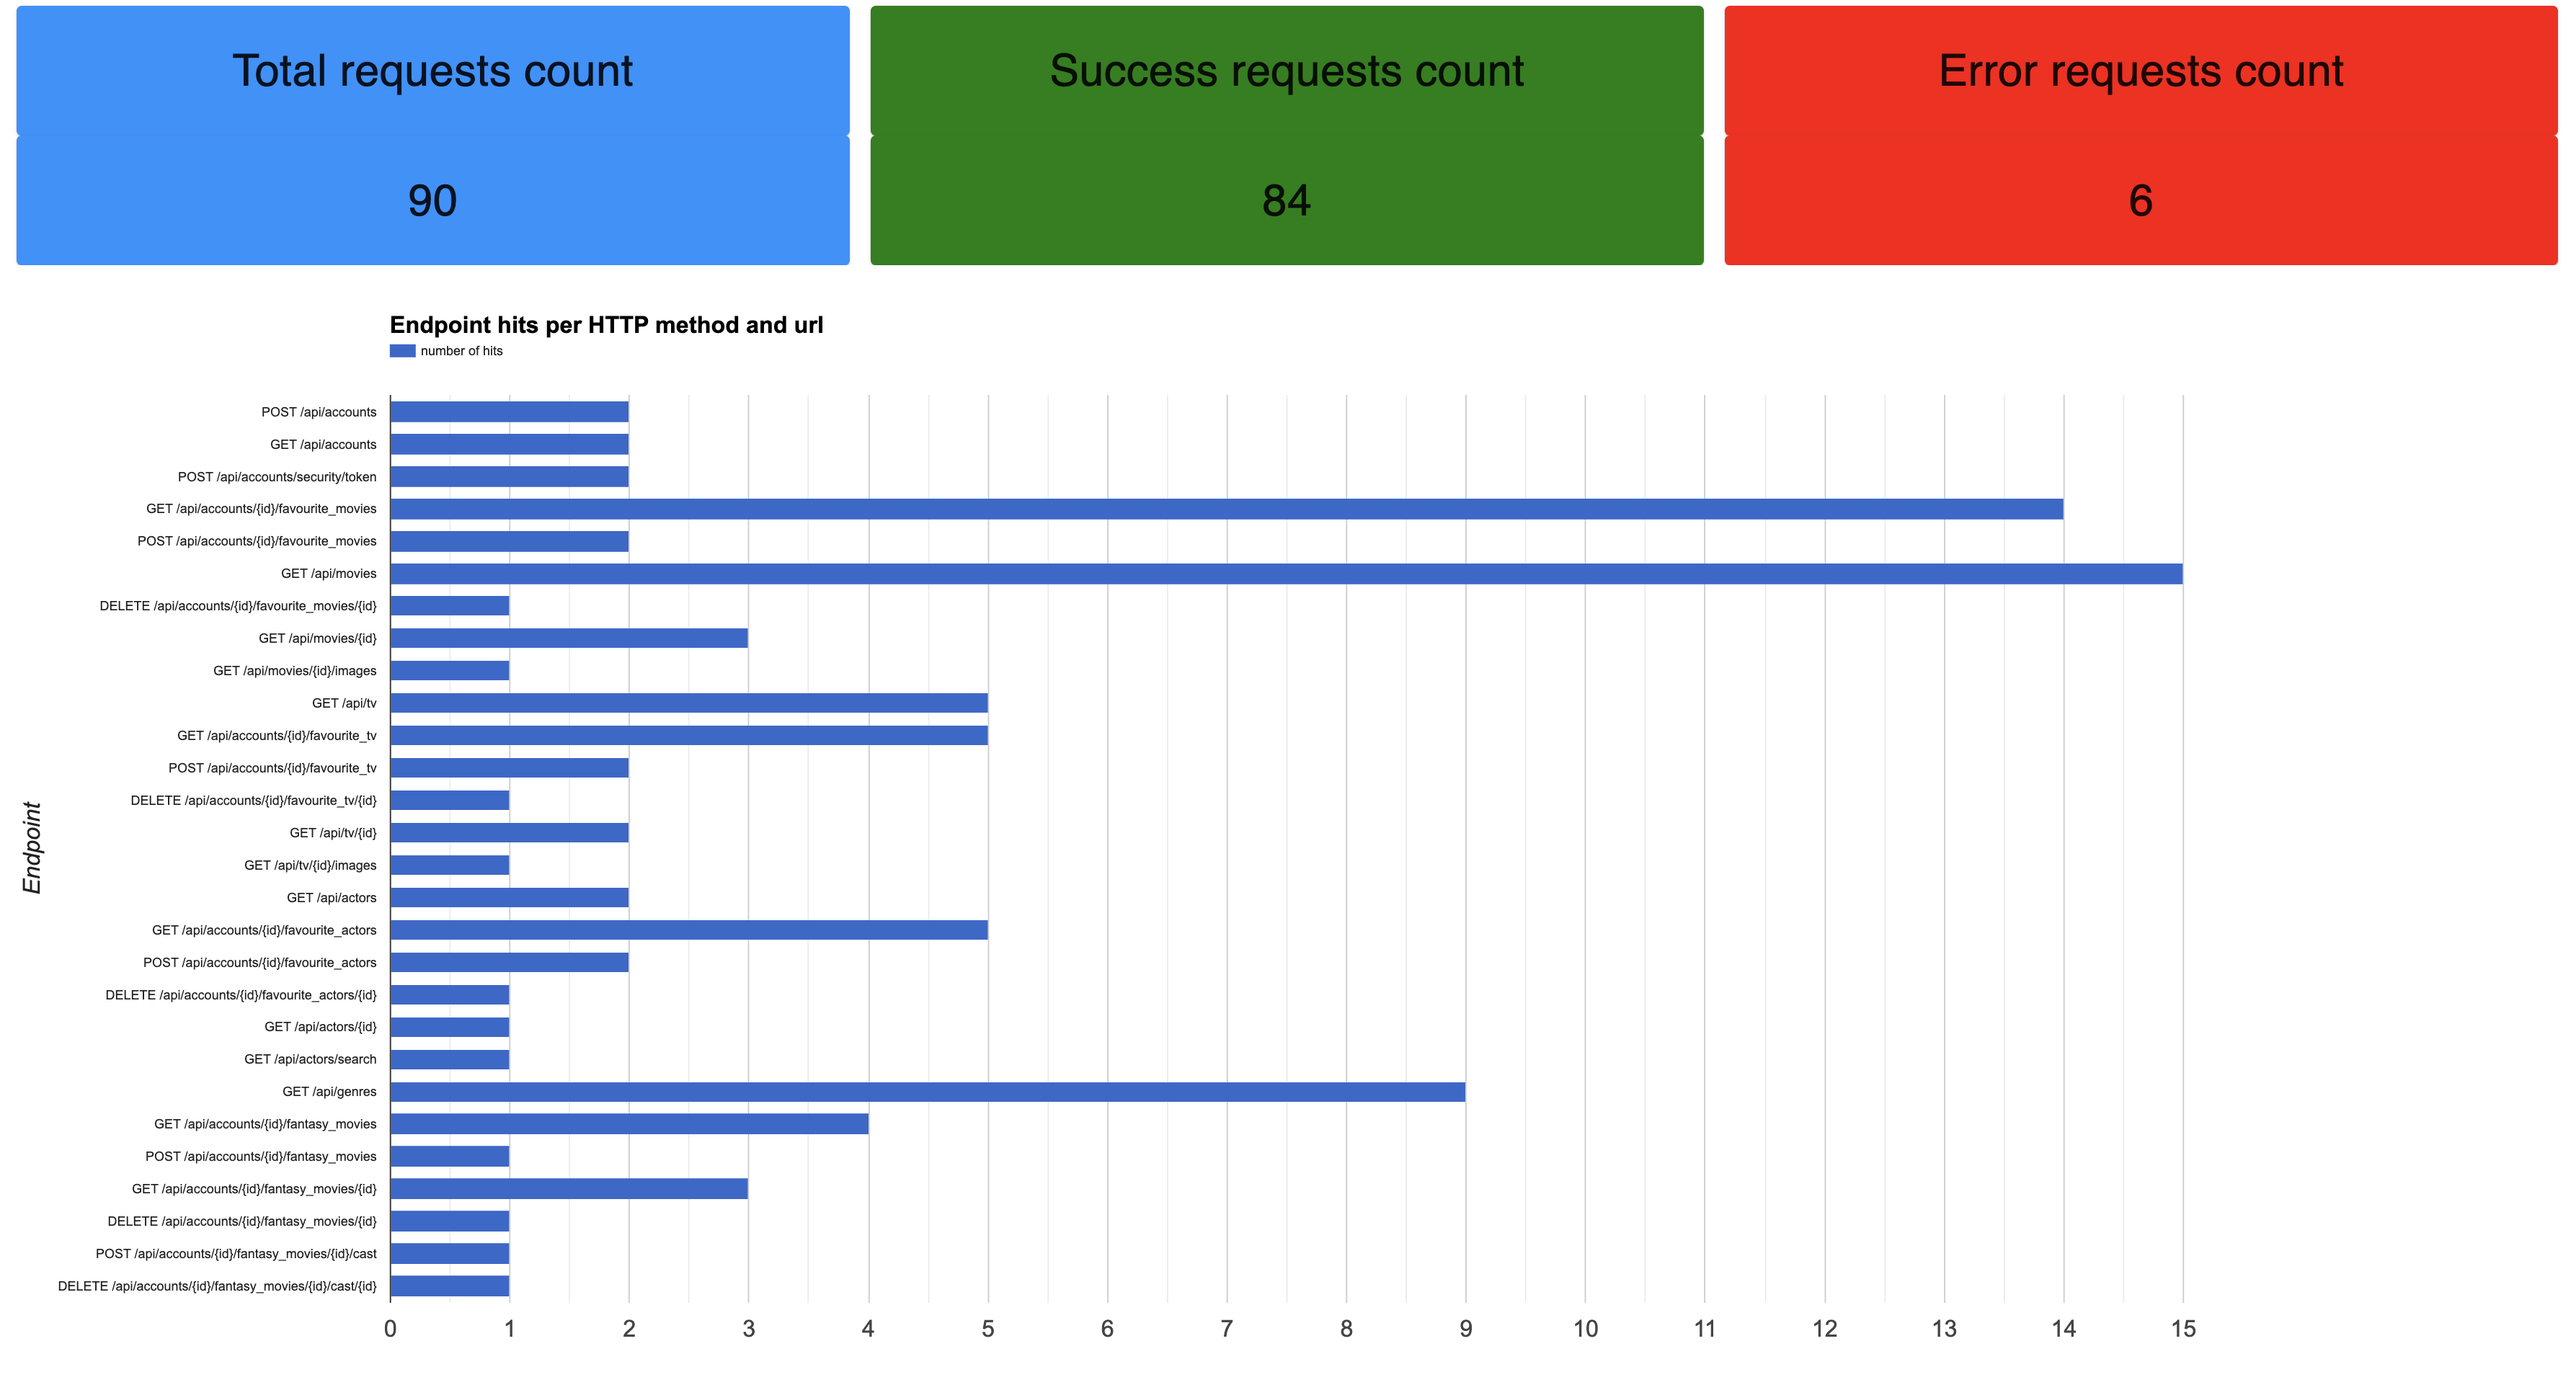
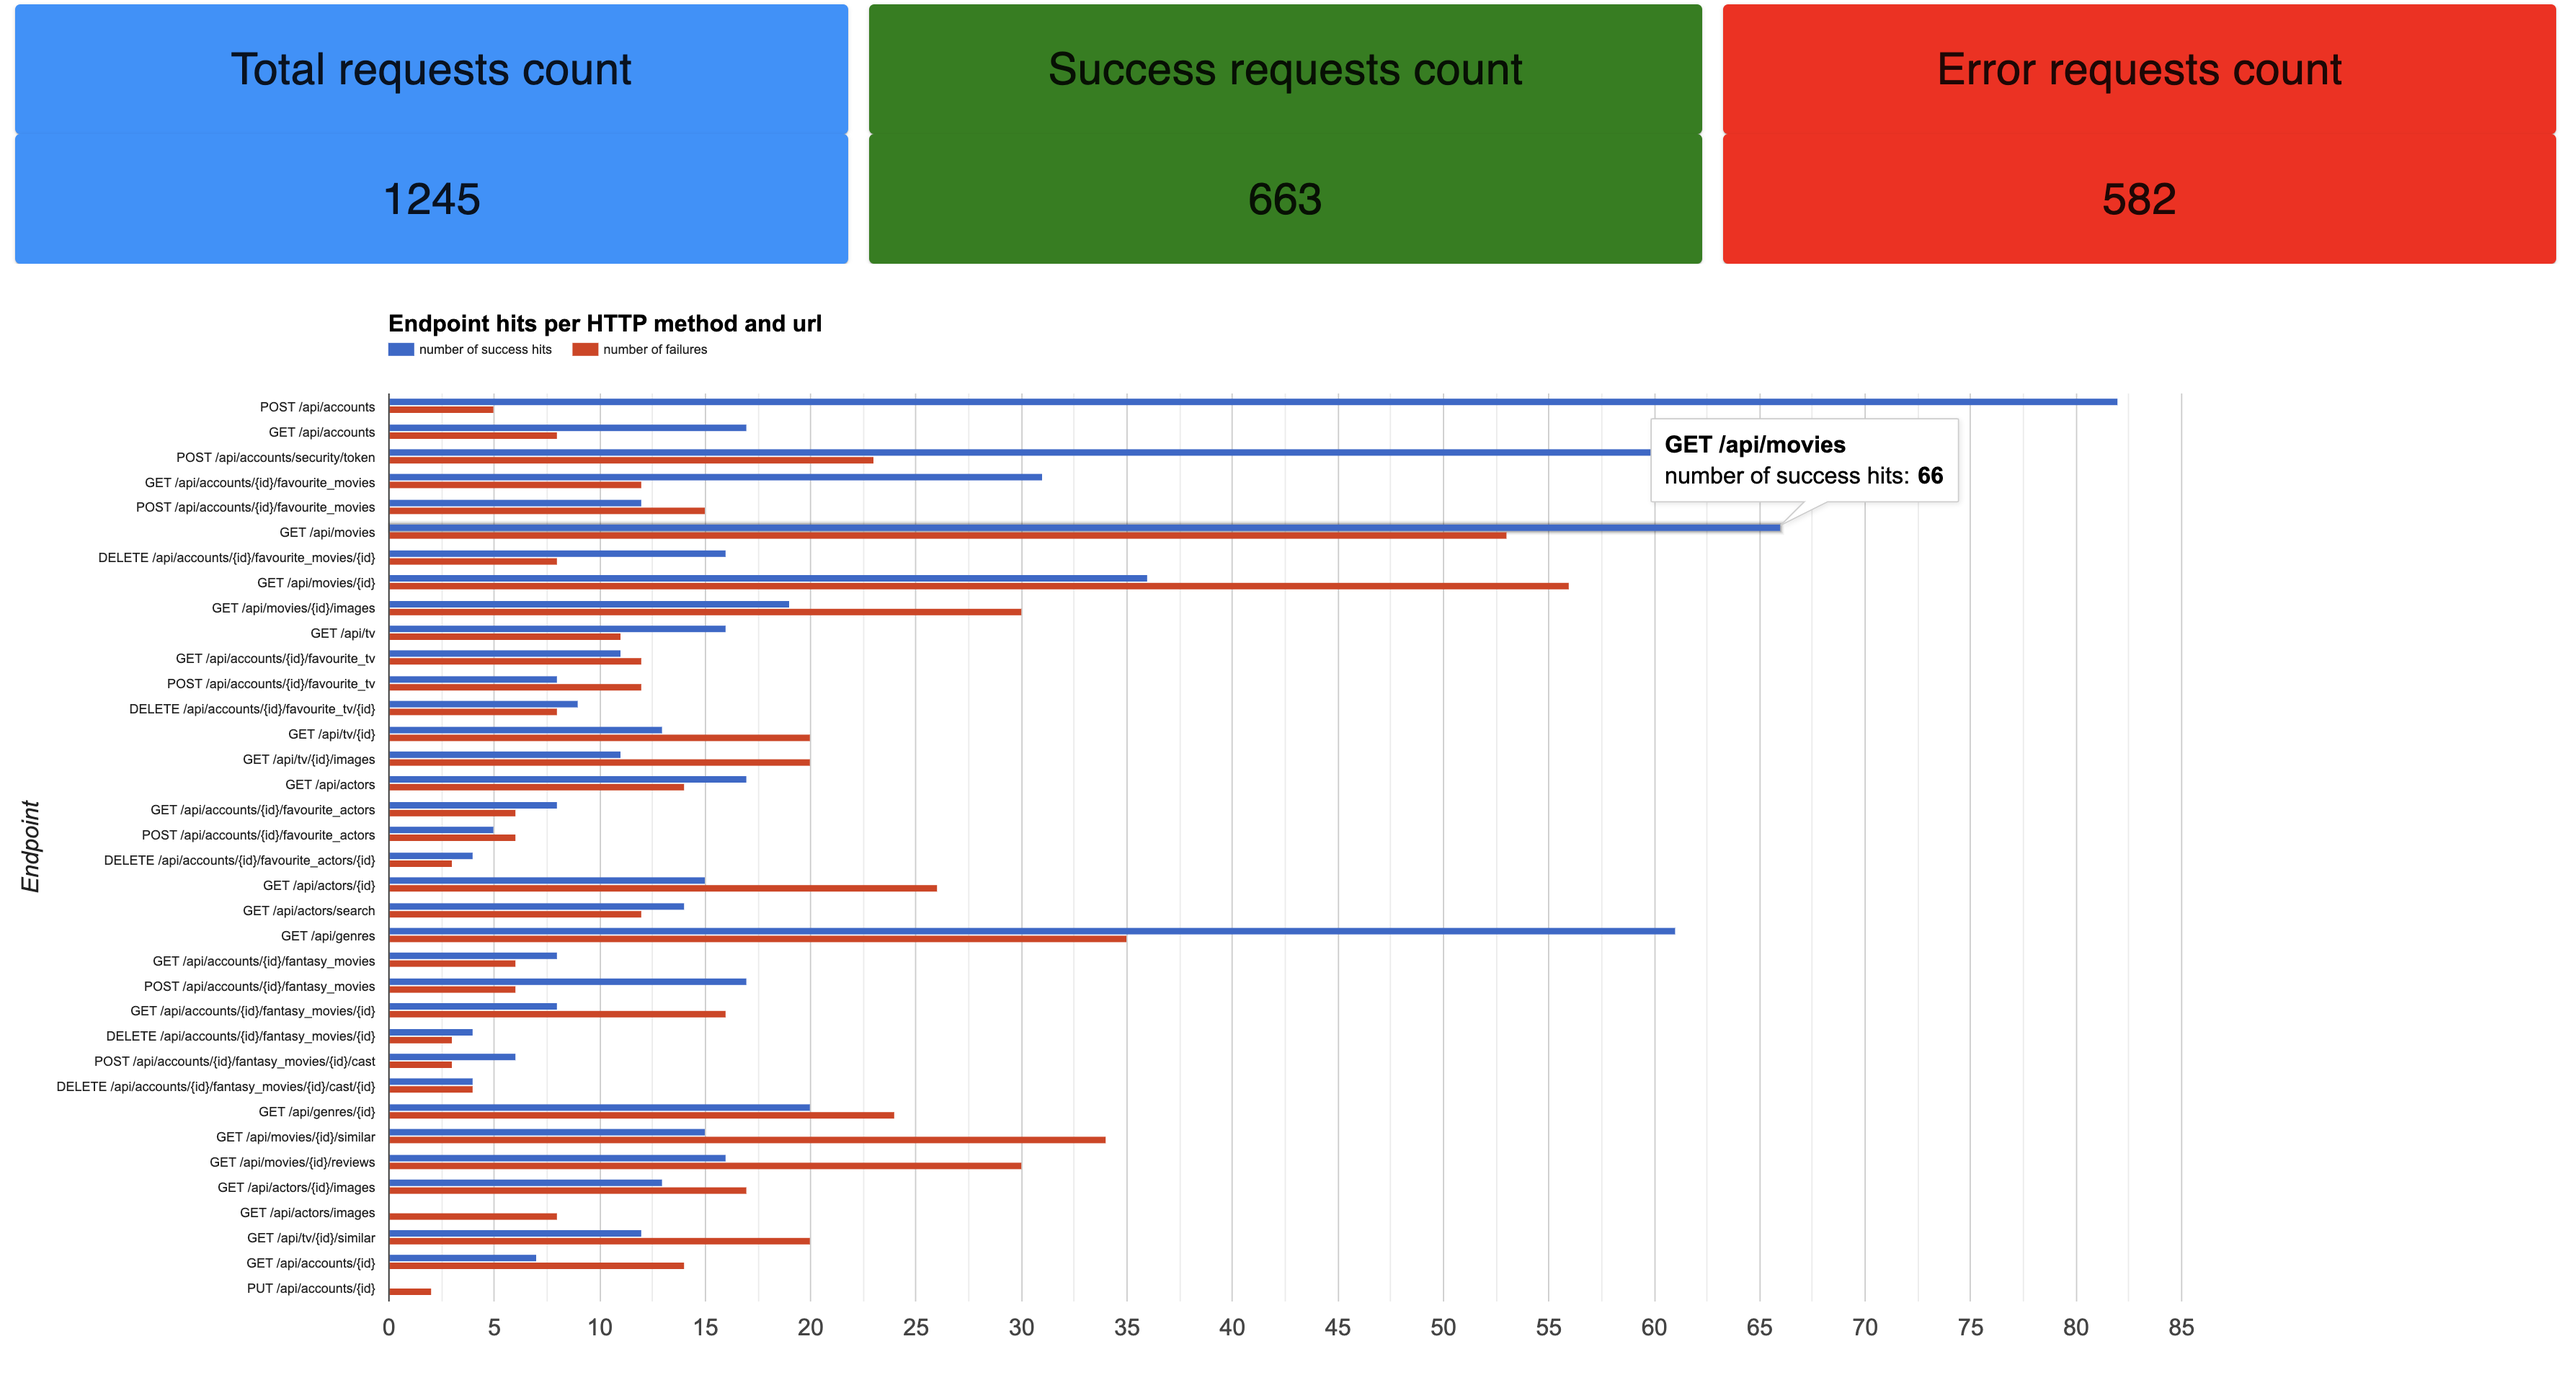
feat: make bar chart per success/ failure

diff --git a/src/App.jsx b/src/App.jsx
@@ -57,13 +57,13 @@ function App() {
   }
 
   function processRequestsPerUrlCount(logsAnalytics) {
-    let barChartData = [["Requests", "number of hits"]];
+    let barChartData = [["Requests", "number of success hits", "number of failures"]];
     logsAnalytics.requestsCount.forEach(el => {
       if (el.length === 2) { // url and method+count
         if (el[1].stats !== undefined) {
           el[1].stats.forEach(endpoint => {
-            if (endpoint.method !== undefined && endpoint.count !== undefined) {
-              barChartData.push([`${endpoint.method} ${el[0]}`, parseInt(endpoint.count)]);
+            if (endpoint.method !== undefined  && endpoint.successCount !== undefined && endpoint.failureCount !== undefined) {
+              barChartData.push([`${endpoint.method} ${el[0]}`, parseInt(endpoint.successCount), parseInt(endpoint.failureCount)]);
             }
           });
         }

diff --git a/README.md b/README.md
@@ -9,7 +9,6 @@ This project is a supplement of [this API](https://github.com/pawelpaszki/ewd-ap
 * logs from the API
 
 ![][s1]
-
 ![][s2]
 
 ### Built With
